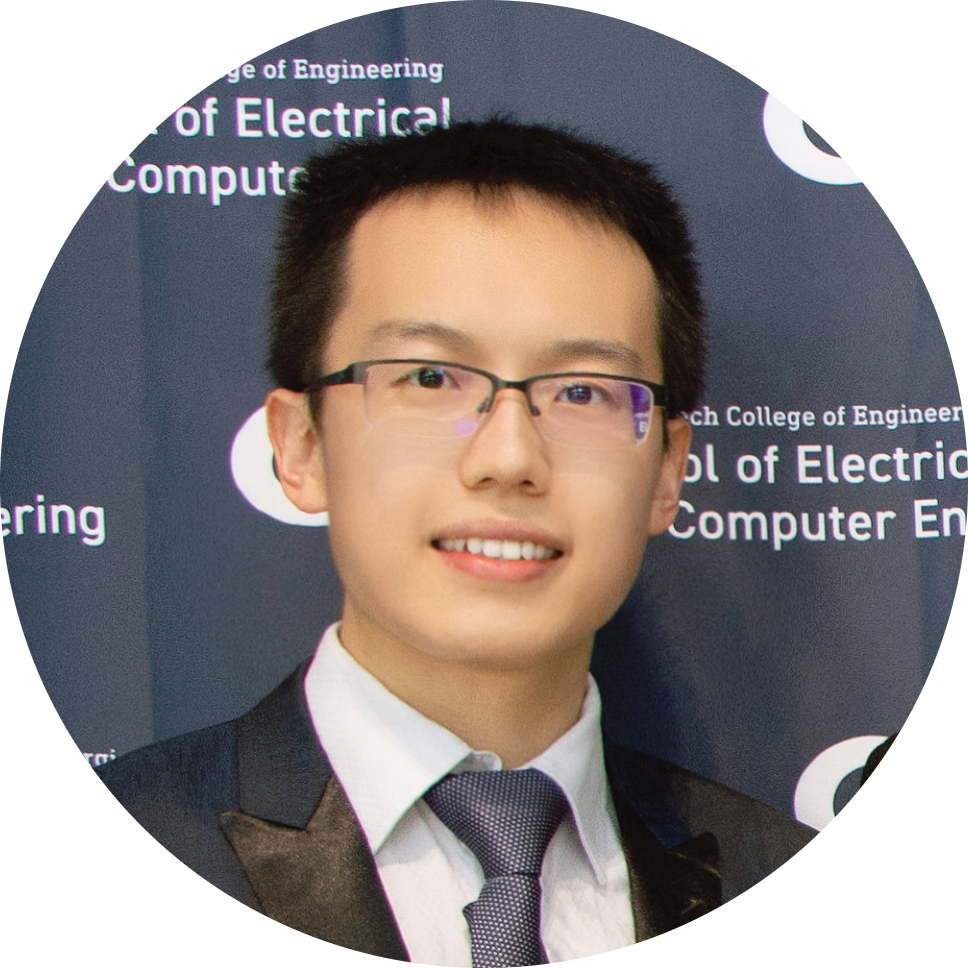
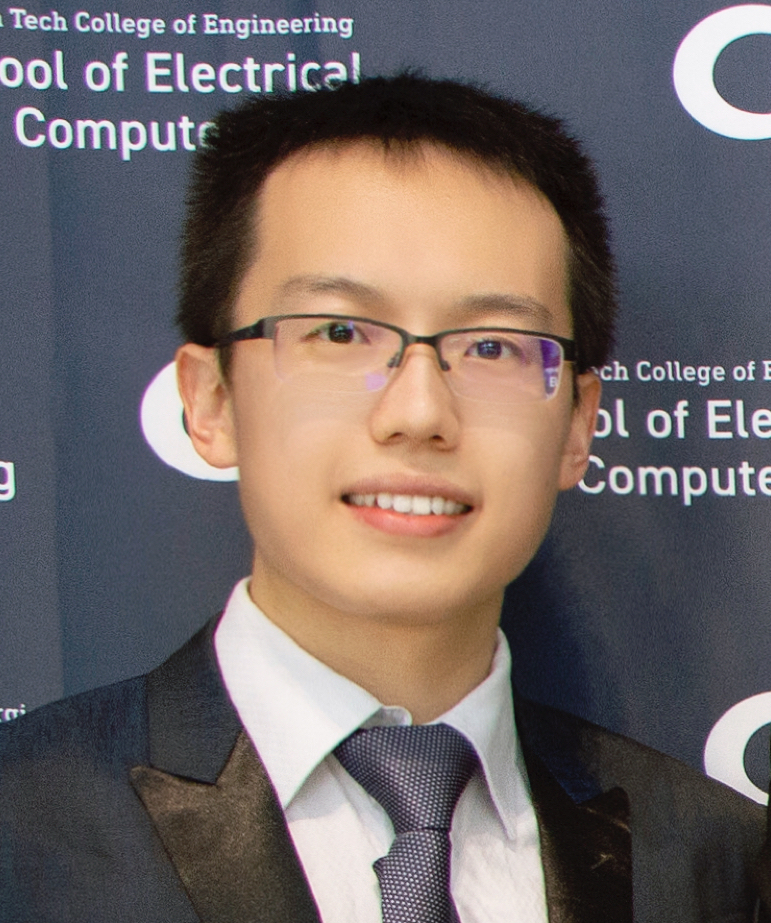
People: refresh PI bio/photo/office, add Jiayi Qian (co-advised), mentees & past-mentee table

diff --git a/data/people.js b/data/people.js
@@ -1,8 +1,9 @@
 // ============================================================
 // Lab members.
-// Groups render in the order below; empty groups are hidden,
-// so just add members as the lab grows. Names listed here are
-// automatically bolded in the publication list.
+// - Card groups render in order; empty groups are hidden.
+// - Names in `groups` are auto-bolded in the publication list.
+// - `pastMentees` renders as a compact table at the bottom
+//   (inspired by ecoai-group.github.io/team).
 // ============================================================
 window.PEOPLE = {
   pi: {
@@ -10,13 +11,16 @@ window.PEOPLE = {
     role: "Assistant Professor",
     photo: "assets/zishen_wan.jpg",
     bio: [
-      "Zishen Wan is an Assistant Professor of Computer Science at Columbia University, where he directs the EMBARC Lab. He is a computer architect and SoC designer working at the intersection of computer architecture, VLSI, and systems, with a focus on (1) cross-layer system–architecture–silicon co-design for embodied and physical AI, and (2) agentic AI for computing system design.",
-      "He received his Ph.D. from Georgia Tech (2025), advised by Prof. Arijit Raychowdhury and Prof. Tushar Krishna, and was a Postdoctoral Fellow at Harvard University with Prof. Vijay Janapa Reddi. His dissertation, “Tailored Computing: Cross-Layer System, Architecture, and Silicon Co-Design for Physical Intelligence,” received the ACM SIGDA Outstanding Ph.D. Dissertation Award and the FCCM Outstanding Ph.D. Dissertation Award.",
-      "His research has been recognized with Best Paper Awards at DAC, CAL, and DARPA SRC JUMP 2.0, an IEEE Micro Top Picks honorable mention, First Place at the DAC PhD Forum and the ACM Student Research Competition, and the Baidu and Qualcomm Fellowships. He was selected as an ML and Systems Rising Star and a Cyber-Physical Systems Rising Star, and his work involves close collaboration with IBM, TSMC, Intel, and Google.",
+      "Zishen Wan is an Assistant Professor of Computer Science at Columbia University, where he directs the EMBARC Lab. He is a computer architect and SoC designer working across computer architecture, computer systems, and chip/VLSI design. His group develops cross-layer computing systems that span software and system design, architecture, and silicon for emerging AI workloads — including embodied, physical, neuro-symbolic, and agentic AI — and develops agentic AI methods for the design, optimization, and verification of computing systems.",
+      "Before joining Columbia, he was a Postdoctoral Fellow at Harvard University, working with Prof. Vijay Janapa Reddi. He received his Ph.D. from Georgia Tech in 2025, advised by Prof. Arijit Raychowdhury and Prof. Tushar Krishna. His dissertation, “Tailored Computing: Cross-Layer System, Architecture, and Silicon Co-Design for Physical Intelligence,” received the ACM SIGDA Outstanding Ph.D. Dissertation Award, the FCCM Outstanding Ph.D. Dissertation Award, and Georgia Tech's Colonel Oscar P. Cleaver Award.",
+      "His research has been recognized with Best Paper Awards from DAC, IEEE Computer Architecture Letters, and DARPA SRC JUMP 2.0, IEEE Micro Top Picks recognition, and first-place honors at the DAC Ph.D. Forum and the ACM Student Research Competition, along with the Baidu and Qualcomm Fellowships. He was selected as both an ML and Systems Rising Star and a Cyber-Physical Systems Rising Star, and his work involves close collaboration with IBM, TSMC, Intel, and Google.",
+      "In Fall 2026, he teaches COMS E6998 “AI-Native Computing: Hardware for AI, AI for Hardware” at Columbia.",
     ],
     email: "zw3306@columbia.edu",
+    office: "522 CSB, 500 West 120th Street, New York, NY 10027",
     links: {
       Website: "https://zishenwan.github.io/",
+      CV: "https://zishenwan.github.io/data/CV_Zishen_Wan.pdf",
       "Google Scholar": "https://scholar.google.com/citations?user=dt3ImqIAAAAJ&hl=en",
       GitHub: "https://github.com/zishenwan",
       LinkedIn: "https://www.linkedin.com/in/zishen-wan/",
@@ -24,21 +28,127 @@ window.PEOPLE = {
     },
   },
 
-  // ---- Add lab members here as the lab grows ----
+  // ---- Current members & mentees (cards) ----
   groups: [
-    { title: "Postdoctoral Researchers", members: [] },
-    { title: "PhD Students", members: [] },
-    { title: "Master's & Undergraduate Researchers", members: [] },
-    { title: "Visiting Scholars & Interns", members: [] },
-    { title: "Alumni", members: [] },
+    {
+      title: "Postdoctoral Researchers",
+      members: [],
+    },
+    {
+      title: "PhD Students",
+      members: [
+        {
+          name: "Jiayi Qian",
+          role: "Ph.D. Student, 2024–",
+          note: "co-advised with Prof. Tushar Krishna (Georgia Tech)",
+          photo: "assets/jiayi_qian.png",
+          interests: "ML systems for agentic & generative AI; accelerators for embodied and neuro-symbolic AI",
+          links: {
+            Website: "https://jiayi-19.github.io/",
+            Scholar: "https://scholar.google.com/citations?user=-yGPXHkAAAAJ&hl=en",
+            LinkedIn: "https://www.linkedin.com/in/jiayi-qian-988848294/",
+          },
+        },
+      ],
+    },
+    {
+      title: "Student Researchers & Mentees",
+      members: [
+        {
+          name: "Hanchen Yang",
+          role: "Ph.D. Student, 2023–",
+          note: "Georgia Tech",
+          interests: "Neuro-symbolic and energy-based model systems; dataflow architectures",
+          links: {
+            Scholar: "https://scholar.google.com/citations?user=zoMQ8CoAAAAJ&hl=en",
+          },
+        },
+        {
+          name: "Yichong Zhang",
+          role: "B.S. Student, 2025–",
+          note: "Tsinghua University",
+          links: {},
+        },
+      ],
+    },
+    {
+      title: "Master's & Undergraduate Researchers",
+      members: [],
+    },
+    {
+      title: "Alumni",
+      members: [],
+    },
     // Member entry format:
     // {
     //   name: "Jane Doe",
-    //   role: "PhD Student (2027–)",
-    //   photo: "assets/jane_doe.jpg",   // optional; a monogram is shown if omitted
+    //   role: "Ph.D. Student, 2027–",
+    //   note: "co-advised with Prof. X",     // optional smaller line under the role
+    //   photo: "assets/jane_doe.jpg",        // optional; monogram shown if omitted
     //   interests: "Neuro-symbolic accelerators",
-    //   links: { Website: "https://...", "Google Scholar": "https://..." },
-    //   // For alumni: destination: "→ Research Scientist, XYZ"
+    //   links: { Website: "https://...", Scholar: "https://..." },
     // }
+  ],
+
+  // ---- Past mentees (compact table) ----
+  // Students Prof. Wan mentored before/outside the lab, with where they went next.
+  pastMenteesNote:
+    "Students we have had the privilege of mentoring, and where they went next.",
+  pastMentees: [
+    {
+      name: "Chenyu Wang", years: "2024–2026",
+      background: "M.S., Princeton University",
+      highlight: "SLM-Mux (ICLR'26), ArchEval",
+      next: "Ph.D. student, Harvard University",
+    },
+    {
+      name: "Yuhang Du", years: "2024–2026",
+      background: "B.S., Fudan University",
+      highlight: "ReCA (ASPLOS'25)",
+      next: "Ph.D. student, UCLA",
+    },
+    {
+      name: "Zijun Wang", years: "2025–2026",
+      background: "M.S., Georgia Tech",
+      highlight: "Faster-MoA (DAC'26)",
+      next: "Samsung Semiconductor",
+    },
+    {
+      name: "Arnav Ramamoorthy", years: "2025–2026",
+      background: "B.S., BITS Pilani",
+      next: "M.S. student, University of Pennsylvania",
+    },
+    {
+      name: "Arnav Shukla", years: "2025–2026",
+      background: "B.S., IIIT Delhi",
+      next: "Qualcomm",
+    },
+    {
+      name: "Jirong Yang", years: "2025",
+      background: "B.S., University of Michigan",
+      next: "Ph.D. student, UT Austin",
+    },
+    {
+      name: "Zhenkun Fan", years: "2023–2025",
+      background: "M.S., Georgia Tech",
+      highlight: "SATA (DATE'26)",
+      next: "Ph.D. student, Georgia Tech",
+    },
+    {
+      name: "Ritik Raj", years: "2023–2024",
+      background: "Ph.D., Georgia Tech",
+      highlight: "CogSys (HPCA'25), SCALE-Sim v3",
+    },
+    {
+      name: "Che-Kai Liu", years: "2022–2024",
+      background: "B.S., Zhejiang University",
+      highlight: "Neuro-symbolic SoC (JSSC'26)",
+      next: "Ph.D. student, Georgia Tech",
+    },
+    {
+      name: "Ying-Hao Wei", years: "2022–2023",
+      background: "M.S., Georgia Tech",
+      next: "Micron",
+    },
   ],
 };

diff --git a/js/render.js b/js/render.js
@@ -90,7 +90,7 @@
       <div class="footer-inner">
         <div>
           <h4>${esc(S.name)}</h4>
-          <p>${esc(S.expansion)}<br>${esc(S.department)}<br>${esc(S.institution)}, New York, NY</p>
+          <p>${esc(S.expansion)}<br>${esc(S.department)}<br>${esc(S.institution)}<br>${esc(S.address)}</p>
         </div>
         <div>
           <h4>Contact</h4>
@@ -264,9 +264,42 @@
           <div class="pi-links">${Object.entries(pi.links)
             .map(([k, v]) => `<a href="${esc(v)}">${esc(k)}</a>`)
             .join("")}</div>
-          <div class="pi-email">${esc(pi.email)}</div>
+          <div class="pi-email"><a href="mailto:${esc(pi.email)}">${esc(pi.email)}</a>${
+            pi.office ? ` · ${esc(pi.office)}` : ""
+          }</div>
         </div>
       </div>`;
+
+    const menteesHTML = (() => {
+      const rows = window.PEOPLE.pastMentees || [];
+      if (!rows.length) return "";
+      return `
+        <div class="people-group">
+          <h2>Past Mentees</h2>
+          ${window.PEOPLE.pastMenteesNote ? `<p class="group-note">${esc(window.PEOPLE.pastMenteesNote)}</p>` : ""}
+          <div class="table-scroll">
+            <table class="mentee-table">
+              <thead>
+                <tr><th>Name</th><th>Years</th><th>Background</th><th>Selected work</th><th>Next</th></tr>
+              </thead>
+              <tbody>
+                ${rows
+                  .map((m) => {
+                    const name = m.link ? `<a href="${esc(m.link)}">${esc(m.name)}</a>` : esc(m.name);
+                    return `<tr>
+                      <td class="mentee-name">${name}</td>
+                      <td class="mentee-years">${esc(m.years || "")}</td>
+                      <td>${esc(m.background || "")}</td>
+                      <td class="mentee-highlight">${esc(m.highlight || "")}</td>
+                      <td>${m.next ? "→ " + esc(m.next) : ""}</td>
+                    </tr>`;
+                  })
+                  .join("")}
+              </tbody>
+            </table>
+          </div>
+        </div>`;
+    })();
 
     groupsEl.innerHTML = (window.PEOPLE.groups || [])
       .filter((g) => (g.members || []).length > 0)
@@ -288,6 +321,7 @@
                   ${avatar}
                   <h3>${esc(m.name)}</h3>
                   <div class="person-role">${esc(m.role || "")}${m.destination ? " " + esc(m.destination) : ""}</div>
+                  ${m.note ? `<div class="person-note">${esc(m.note)}</div>` : ""}
                   ${m.interests ? `<div class="person-interests">${esc(m.interests)}</div>` : ""}
                   ${links ? `<div class="person-links">${links}</div>` : ""}
                 </div>`;
@@ -296,7 +330,7 @@
           </div>
         </div>`
       )
-      .join("");
+      .join("") + menteesHTML;
   }
 
   // ---------- page dispatch ----------

diff --git a/css/site.css b/css/site.css
@@ -340,8 +340,35 @@ h1.page-title { font-size: 42px; line-height: 1.15; margin-bottom: 14px; }
 }
 .person h3 { font-size: 16px; font-weight: 600; }
 .person .person-role { font-size: 13px; color: var(--ink-faint); margin: 2px 0 6px; }
+.person .person-note {
+  font-size: 12px; color: var(--accent-deep); background: var(--wash);
+  border-radius: 999px; padding: 2px 10px; display: inline-block; margin: -2px 0 8px;
+}
 .person .person-interests { font-size: 13px; color: var(--ink-soft); }
 .person .person-links { margin-top: 8px; font-size: 13px; display: flex; justify-content: center; gap: 10px; flex-wrap: wrap; }
+
+.group-note { font-size: 14px; color: var(--ink-faint); margin: -8px 0 16px; }
+
+.table-scroll { overflow-x: auto; }
+.mentee-table {
+  width: 100%; border-collapse: collapse; font-size: 14px; min-width: 640px;
+}
+.mentee-table th {
+  text-align: left; font-size: 11.5px; font-weight: 650; letter-spacing: 0.08em;
+  text-transform: uppercase; color: var(--ink-faint);
+  padding: 8px 14px 8px 0; border-bottom: 1px solid var(--line);
+  white-space: nowrap;
+}
+.mentee-table td {
+  padding: 9px 14px 9px 0; border-bottom: 1px solid #f0f2f5;
+  vertical-align: top; color: var(--ink-soft); line-height: 1.5;
+}
+.mentee-table tr:last-child td { border-bottom: 0; }
+.mentee-table .mentee-name { font-weight: 600; color: var(--ink); white-space: nowrap; }
+.mentee-table .mentee-years {
+  font-family: var(--mono); font-size: 12px; color: var(--ink-faint); white-space: nowrap;
+}
+.mentee-table .mentee-highlight { font-size: 13px; }
 
 .join-cta-card {
   background: var(--wash); border: 1px solid #d8e8f4; border-radius: 10px;

diff --git a/data/site.js b/data/site.js
@@ -17,7 +17,7 @@ window.SITE = {
   recruitingNote:
     "We are recruiting PhD students, postdocs, and student researchers.",
   email: "zw3306@columbia.edu",
-  address: "Department of Computer Science, Columbia University, New York, NY",
+  address: "500 West 120th Street, New York, NY 10027",
   links: {
     scholar: "https://scholar.google.com/citations?user=dt3ImqIAAAAJ&hl=en",
     github: "https://github.com/zishenwan",

diff --git a/README.md b/README.md
@@ -10,7 +10,8 @@ The website of the EMBARC Lab (Embodied-AI Architecture & Co-design) at Columbia
 |---|---|---|
 | Add a paper | `data/publications.js` | Copy an entry to the top of the array. Set `venue`, `year`, `tags` (research area), `links`. Add `selected: true` to feature it on the home page (keep ~6–8 selected). |
 | Add news | `data/news.js` | Add an entry at the top. `[text](url)` inside `text` becomes a link. |
-| Add a member | `data/people.js` | Add to the right group in `groups`. Put their photo in `assets/` (square crop looks best). Names listed here are auto-bolded in the publication list. |
+| Add a member | `data/people.js` | Add to the right group in `groups`. Put their photo in `assets/` (square crop looks best). Names listed here are auto-bolded in the publication list. Use `note` for co-advising or home institution. |
+| Add a past mentee | `data/people.js` | Add a row to `pastMentees` (name, years, background, optional `highlight` publication, `next` destination). |
 | Edit research areas | `data/research.js` | Each pillar has a short blurb (home page), long blurb (research page), keywords, and representative publication ids. |
 | Rename the lab / change contact | `data/site.js` | One place; nav, footer, and banners update everywhere. Page `<title>` tags in each HTML file must be updated by hand. |
 | Edit Join Us content | `join.html` | Plain HTML, edit directly. |
@@ -56,5 +57,4 @@ assets/ ……… photos, favicon, figures
 - [ ] Confirm lab name (currently **EMBARC**; change in `data/site.js` + the `<title>`/meta tags of the six HTML pages, and `sitemap.xml`)
 - [ ] `data/publications.js`: fill in full author lists for FortiSky (DATE'26) and the FCCM'26 ferroelectric-FPGA paper (currently "et al.")
 - [ ] `join.html`: verify the Columbia CS PhD application link/deadline wording before December
-- [ ] Add office address to `data/site.js` once assigned
-- [ ] Replace `assets/zishen_wan.jpg` with a newer photo if desired
+- [ ] `assets/jiayi_qian.png` is the cat avatar from Jiayi's homepage — swap for a portrait if preferred
